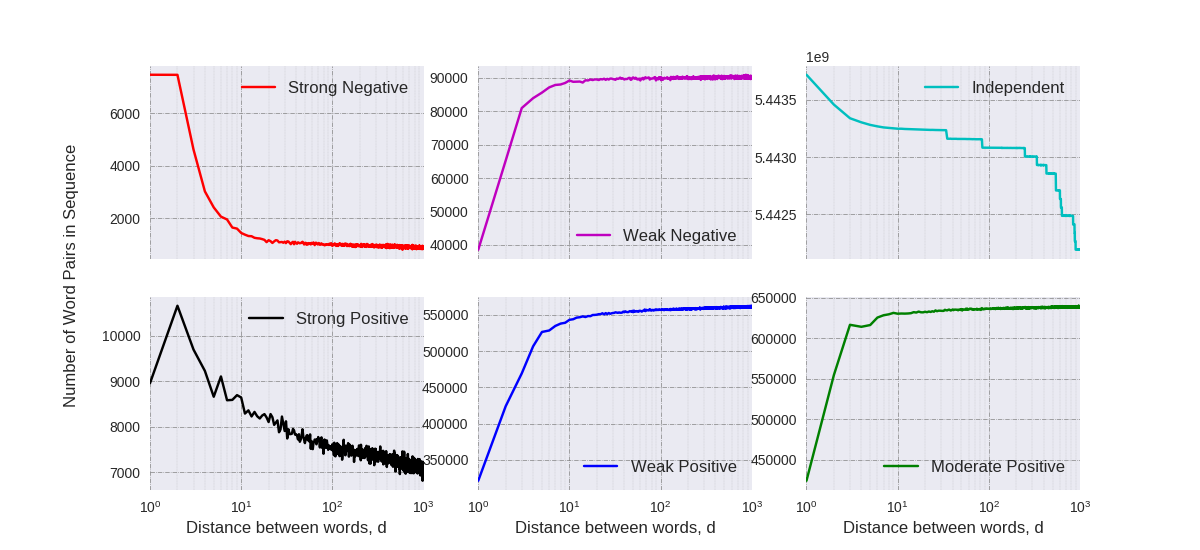
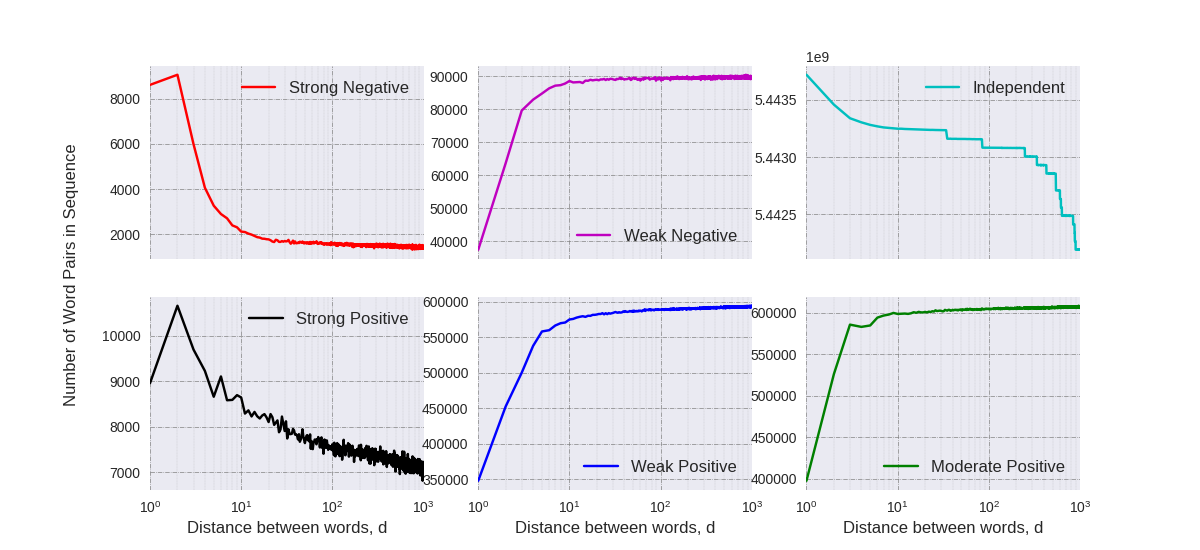
Up

diff --git a/paper_related/co-occurrence/compute_change.py b/paper_related/co-occurrence/compute_change.py
@@ -2,28 +2,44 @@
 
 import numpy as np
 
-ptb = np.array([4966,20676,99706700,140325,126920,413,4253,33493,99598086,197375,166496,297,2731,40599,99556104,219914,180389,263,1898,42031,99541383,236028,178449,211,1573,42496,99534088,242608,178989,246,1390,43108,99529113,246173,179966,250,1282,43210,99526539,248310,180408,251,1200,43629,99524121,249760,181045,245,1199,43631,99523726,250273,180929,242,1084,43769,99521837,251299,181777,234,1093,43586,99521383,252696,181012,230,1095,43767,99520335,252974,181582,247,1019,44194,99519581,253585,181375,246,1019,44069,99519287,253645,181749,231,1000,44012,99519015,253813,181921,239,952,43743,99518372,254903,181804,226,967,44119,99517945,254712,182026,231,955,44035,99517879,254945,181927,259,925,44251,99517010,255217,182359,238,931,43974,99517563,255466,181821,245,942,44078,99517005,256007,181733,235,905,44311,99516992,255589,181964,239,949,44042,99516680,256179,181890,260,920,44262,99516193,256734,181672,219,891,44220,99516310,256936,181379,264,905,44165,99516405,256566,181719,240,910,44384,99515906,256289,182246,265,897,44144,99516215,256308,182231,205,888,44007,99516210,257085,181571,239,890,44141,99516031,256826,181875,237,906,44152,99515628,256858,182236,220,893,43956,99515790,257301,181833,227,837,44381,99515180,257547,181805,250,881,44144,99514947,258189,181614,225,829,44223,99515123,257879,181711,235,824,44111,99515044,257887,181907,227,836,44325,99514719,258080,181810,230,870,44496,99514503,257374,182520,237,840,44255,99514036,258607,182037,225,833,44292,99514480,257853,182312,230,842,44224,99514174,258240,182290,230,869,44231,99514218,258399,182079,204,799,44205,99514814,257824,182140,218,882,44304,99514151,257866,182562,235,798,44379,99514117,258696,181808,202,866,44203,99513869,258585,182242,235,810,44073,99514307,259053,181510,247,798,44436,99513768,258822,181937,239,802,44114,99514206,258766,181874,238,791,44172,99514149,258712,181923,253,836,44080,99513546,259222,182089,227,815,44337,99513554,258969,182102,223,841,44152,99513361,259017,182421,208,838,44265,99513269,259146,182238,244,804,44154,99513543,258912,182354,233,811,44392,99513248,258879,182449,221,793,44108,99513521,259129,182245,204,775,44154,99513775,258788,182277,231,814,44454,99513157,259044,182334,197,820,44456,99512662,259339,182510,213,842,44301,99513097,259475,182089,196,850,44089,99513228,259631,181992,210,805,44394,99513389,259131,182036,245,836,44243,99512916,259548,182254,203,837,44230,99513153,258895,182642,243,837,44333,99513158,259163,182284,225,790,44282,99513281,259247,182195,205,777,44482,99512461,259528,182526,226,800,44086,99513118,259688,182071,237,786,44383,99512979,259534,182106,212,814,44296,99513023,259463,182196,208,844,44230,99512929,259259,182493,245,767,44347,99512932,258854,182877,223,792,44105,99512659,260127,182106,211,756,44427,99512771,259435,182375,236,785,44172,99512848,260072,181924,199,798,44262,99512295,259871,182566,208,787,44266,99512788,259363,182567,229,756,44218,99512610,260252,181960,204,775,44541,99512397,259886,182178,223,789,44407,99512088,260181,182303,232,801,44313,99512351,259993,182345,197,761,44281,99512672,259493,182569,224,781,44372,99512400,260050,182182,215,779,44491,99511981,260003,182516,230,751,44559,99512238,259815,182454,183,722,44414,99512255,260012,182392,205,807,44101,99512504,260089,182301,198,799,44280,99512399,259881,182416,225,813,44084,99511998,260446,182425,234,838,43959,99512024,260629,182325,225,770,44128,99512366,260058,182485,193,754,44163,99512305,260119,182444,215,719,44652,99511851,259843,182729,206,783,44423,99512044,260044,182464,242,775,44206,99512145,260390,182268,216,728,44530,99511966,260284,182272,220,803,43951,99512623,260334,182060,229,724,44501,99512032,260218,182329,196,782,44414,99512106,260095,182377,226]).reshape(100,6)
-wiki2 = np.array([9534,41134,1106725105,330313,318109,1089,9322,68830,1106467008,442875,436225,1024,6258,84445,1106350846,492524,490300,911,4301,88461,1106314868,530096,486747,811,3482,90158,1106294128,546929,489888,699,3107,91767,1106280272,551418,497993,727,2887,92182,1106272845,557151,499496,723,2602,92689,1106268199,559902,501156,736,2435,93253,1106265017,561981,501836,762,2348,93213,1106263421,564906,500659,737,2219,93866,1106260701,566349,501451,698,2230,93458,1106260041,568421,500407,727,2070,93416,1106259488,568846,500761,703,2119,93125,1106257954,570259,501163,664,2028,93726,1106256601,570713,501460,756,2030,93933,1106256777,570615,501265,664,1960,94131,1106255947,571118,501423,705,1917,93867,1106254736,572469,501642,653,1893,94177,1106254855,571730,501932,697,1955,94111,1106253837,572090,502606,685,1923,94300,1106253521,573591,501200,749,1879,94356,1106252816,574099,501429,705,1876,94088,1106252734,574218,501703,665,1794,94172,1106251963,574731,501928,696,1838,93728,1106252409,573714,502909,686,1856,94057,1106251709,574381,502633,648,1855,94154,1106251436,574935,502219,685,1806,94257,1106251351,574412,502792,666,1924,94366,1106250582,575330,502419,663,1842,94442,1106250052,575171,503141,636,1867,93898,1106250875,575456,502512,676,1804,94315,1106250553,574949,502996,667,1766,94000,1106250461,575416,503003,638,1823,94120,1106249561,576348,502741,691,1817,94353,1106249544,576074,502860,636,1751,94339,1106249645,575629,503263,657,1817,94215,1106249614,575579,503401,658,1840,94206,1106248959,576315,503330,634,1843,94083,1106248906,576487,503331,634,1789,94631,1106247791,577301,503136,636,1801,94511,1106249110,575357,503857,648,1810,94401,1106248409,575734,504293,637,1805,94253,1106248637,576809,503146,634,1822,94366,1106248543,576860,503052,641,1683,94340,1106247952,576525,504139,645,1833,94753,1106247917,576736,503373,672,1805,94117,1106248495,576799,503412,656,1764,94308,1106248316,576590,503672,634,1786,94775,1106247405,576555,504075,688,1766,94345,1106247734,577928,502908,603,1841,94444,1106247049,577658,503660,632,1750,94448,1106247128,577306,504031,621,1714,94667,1106247278,576037,504946,642,1802,94404,1106247622,576926,503897,633,1757,94803,1106247003,577475,503659,587,1677,94575,1106246635,577835,503929,633,1757,94107,1106247704,577171,503912,633,1690,94350,1106247028,578205,503385,626,1821,94237,1106247383,577146,504050,647,1736,94533,1106246634,577605,504197,579,1746,94034,1106246943,578104,503835,622,1798,94569,1106246425,577788,504150,554,1747,94918,1106246031,577721,504223,644,1757,94147,1106247146,577324,504276,634,1765,94529,1106246106,577838,504402,644,1696,94194,1106247062,577703,504032,597,1737,94721,1106245966,577669,504626,565,1748,94087,1106246496,577956,504410,587,1700,94475,1106247108,577031,504301,669,1740,94113,1106246845,577426,504582,578,1747,94358,1106246040,577830,504680,629,1778,94398,1106246396,578123,503928,661,1730,94325,1106246904,577766,503966,593,1686,94436,1106246598,577489,504491,584,1683,94761,1106245823,578394,504003,620,1759,94873,1106245620,578126,504286,620,1822,94429,1106245910,577255,505285,583,1725,94713,1106246159,578483,503592,612,1705,94725,1106245270,578512,504491,581,1737,94340,1106246101,578699,503765,642,1787,94333,1106245802,578887,503857,618,1735,94918,1106245389,577890,504713,639,1795,94661,1106245480,578121,504625,602,1732,94736,1106245475,577985,504775,581,1721,94231,1106245933,579079,503739,581,1710,94189,1106245745,578933,504130,577,1821,94253,1106245979,578088,504500,643,1754,94115,1106245581,578790,504432,612,1729,94423,1106245614,578727,504185,606,1702,94742,1106245410,578392,504431,607,1696,94670,1106244986,579307,504051,574,1699,94440,1106245889,579160,503470,626,1772,94541,1106245109,579225,504021,616,1714,94580,1106245069,577941,505366,614,1717,94450,1106245169,578424,504891,633,1688,94387,1106246106,578880,503619,604,1689,94914,1106244620,578988,504469,604,1767,94674,1106246036,577603,504622,582,1691,94620,1106245796,578365,504214,598,1684,94322,1106244910,579679,504096,593]).reshape(100,6)
-wiki103 = np.array([255500,1084984,71670961219,4998715,4724766,5041,232375,1912273,71663671317,8492501,7717194,4565,138149,2383345,71660030085,10627197,8848631,2818,90897,2512515,71659012922,11530096,8881262,2533,68887,2554330,71658361582,12064738,8978738,1950,58712,2596428,71657781813,12367161,9223900,2211,51573,2615937,71657495163,12588591,9277104,1857,47242,2627494,71657309854,12729862,9313799,1974,43762,2638694,71657181672,12830266,9334089,1742,40934,2644695,71657103914,12900240,9338708,1734,39487,2649190,71657034355,12964043,9341489,1661,37872,2654632,71656970051,13007815,9358034,1821,36707,2658522,71656922967,13054506,9355893,1630,35677,2659771,71656870319,13095876,9366857,1725,34257,2666276,71656811438,13130645,9385995,1614,33975,2667711,71656772687,13164458,9389811,1583,33386,2671954,71656728671,13195324,9399343,1547,32648,2673443,71656690527,13223220,9408802,1585,32291,2674557,71656664305,13242540,9414957,1575,31795,2675110,71656637329,13266707,9417718,1566,31077,2676234,71656606778,13290972,9423633,1531,30968,2678509,71656579113,13310530,9429634,1471,30492,2680488,71656553802,13330374,9433619,1450,30508,2681911,71656529265,13346405,9440724,1412,29758,2682277,71656510977,13362451,9443315,1447,29924,2685531,71656480982,13381789,9450552,1447,29344,2681926,71656472110,13396590,9448896,1359,29021,2684870,71656448127,13411303,9455500,1404,28801,2684915,71656430724,13426860,9457486,1439,28624,2686621,71656410866,13436326,9466469,1319,28449,2686961,71656397811,13450985,9464685,1334,28613,2688643,71656378543,13466477,9466582,1367,28199,2689120,71656359339,13483297,9468954,1316,27906,2690177,71656347271,13490920,9472651,1300,27946,2689438,71656335842,13502894,9472812,1293,27498,2690752,71656320820,13508494,9481353,1308,27405,2692476,71656305260,13518631,9485134,1319,27315,2691140,71656296729,13532392,9481371,1278,26827,2694072,71656277764,13541269,9488962,1331,26982,2690948,71656273222,13553911,9483856,1306,26545,2692489,71656261025,13561458,9487410,1298,26853,2695043,71656244830,13569301,9492932,1266,26583,2694547,71656240859,13573661,9493301,1274,26476,2695119,71656227617,13582092,9497641,1280,26543,2695516,71656217117,13593155,9496723,1171,26009,2698100,71656209056,13597396,9498460,1204,26183,2694790,71656200781,13605941,9501345,1185,26078,2695997,71656188326,13614798,9503813,1213,25707,2697102,71656179503,13620329,9506370,1214,25735,2699409,71656172910,13624643,9506291,1237,25825,2698795,71656161903,13636680,9505787,1235,25493,2696560,71656162547,13636825,9507656,1144,25340,2696674,71656150562,13646554,9509904,1191,25578,2699649,71656144132,13650020,9509715,1131,25420,2699692,71656135596,13654064,9514318,1135,25443,2698672,71656129388,13659905,9515698,1119,25182,2699662,71656122445,13665349,9516479,1108,25202,2699661,71656112931,13673179,9518122,1130,25472,2700991,71656108225,13674616,9519810,1111,24898,2699109,71656098530,13687025,9519566,1097,24892,2699792,71656098140,13686160,9520147,1094,24654,2701693,71656084578,13698127,9520077,1093,24515,2702688,71656081956,13693493,9526523,1050,25013,2700466,71656077597,13702970,9523055,1124,24540,2701819,71656071808,13708724,9522202,1132,24573,2702512,71656064396,13709197,9528451,1096,24446,2701930,71656060453,13713588,9528723,1085,24451,2700937,71656054876,13723563,9525309,1089,24446,2702836,71656047005,13726039,9528790,1109,24424,2702303,71656044474,13726807,9531144,1073,24205,2701090,71656035645,13738100,9530086,1099,24112,2702667,71656037060,13735539,9529813,1034,24187,2704155,71656030124,13740968,9529803,988,23844,2703987,71656019529,13744158,9537613,1094,23697,2701415,71656023917,13749159,9531027,1010,24005,2702890,71656012820,13753536,9535835,1139,24263,2704349,71656008532,13754125,9537887,1069,23835,2704571,71656006602,13757979,9536166,1072,23823,2704300,71655997320,13764673,9539046,1063,23767,2705871,71655992126,13768232,9539196,1033,23666,2704414,71655992391,13773443,9535261,1050,23649,2704643,71655988721,13771871,9540335,1006,23574,2707619,71655980752,13769366,9547844,1070,23632,2704504,71655979095,13781615,9540418,961,23452,2705858,71655977346,13779758,9542833,978,23537,2707435,71655973128,13784477,9540603,1045,23379,2707434,71655967779,13785774,9544850,1009,23495,2707035,71655960909,13793481,9544281,1024,23286,2708653,71655963097,13789866,9544322,1001,23289,2708985,71655950381,13797471,9549070,1029,23039,2705412,71655954218,13798910,9547675,971,22967,2706783,71655948108,13802007,9549339,1021,23138,2706815,71655945179,13802643,9551505,945,23011,2708096,71655940678,13810176,9547237,1027,23107,2707157,71655938797,13811085,9549078,1001,22846,2710014,71655936003,13809124,9551306,932,22730,2707755,71655933164,13821069,9544525,982,22971,2707940,71655928848,13818038,9551351,1077,23028,2707007,71655922837,13823773,9552623,957,22890,2706447,71655922931,13825017,9551953,987]).reshape(100,6)
+# ptb = np.array([4966,20676,99706700,140325,126920,413,4253,33493,99598086,197375,166496,297,2731,40599,99556104,219914,180389,263,1898,42031,99541383,236028,178449,211,1573,42496,99534088,242608,178989,246,1390,43108,99529113,246173,179966,250,1282,43210,99526539,248310,180408,251,1200,43629,99524121,249760,181045,245,1199,43631,99523726,250273,180929,242,1084,43769,99521837,251299,181777,234,1093,43586,99521383,252696,181012,230,1095,43767,99520335,252974,181582,247,1019,44194,99519581,253585,181375,246,1019,44069,99519287,253645,181749,231,1000,44012,99519015,253813,181921,239,952,43743,99518372,254903,181804,226,967,44119,99517945,254712,182026,231,955,44035,99517879,254945,181927,259,925,44251,99517010,255217,182359,238,931,43974,99517563,255466,181821,245,942,44078,99517005,256007,181733,235,905,44311,99516992,255589,181964,239,949,44042,99516680,256179,181890,260,920,44262,99516193,256734,181672,219,891,44220,99516310,256936,181379,264,905,44165,99516405,256566,181719,240,910,44384,99515906,256289,182246,265,897,44144,99516215,256308,182231,205,888,44007,99516210,257085,181571,239,890,44141,99516031,256826,181875,237,906,44152,99515628,256858,182236,220,893,43956,99515790,257301,181833,227,837,44381,99515180,257547,181805,250,881,44144,99514947,258189,181614,225,829,44223,99515123,257879,181711,235,824,44111,99515044,257887,181907,227,836,44325,99514719,258080,181810,230,870,44496,99514503,257374,182520,237,840,44255,99514036,258607,182037,225,833,44292,99514480,257853,182312,230,842,44224,99514174,258240,182290,230,869,44231,99514218,258399,182079,204,799,44205,99514814,257824,182140,218,882,44304,99514151,257866,182562,235,798,44379,99514117,258696,181808,202,866,44203,99513869,258585,182242,235,810,44073,99514307,259053,181510,247,798,44436,99513768,258822,181937,239,802,44114,99514206,258766,181874,238,791,44172,99514149,258712,181923,253,836,44080,99513546,259222,182089,227,815,44337,99513554,258969,182102,223,841,44152,99513361,259017,182421,208,838,44265,99513269,259146,182238,244,804,44154,99513543,258912,182354,233,811,44392,99513248,258879,182449,221,793,44108,99513521,259129,182245,204,775,44154,99513775,258788,182277,231,814,44454,99513157,259044,182334,197,820,44456,99512662,259339,182510,213,842,44301,99513097,259475,182089,196,850,44089,99513228,259631,181992,210,805,44394,99513389,259131,182036,245,836,44243,99512916,259548,182254,203,837,44230,99513153,258895,182642,243,837,44333,99513158,259163,182284,225,790,44282,99513281,259247,182195,205,777,44482,99512461,259528,182526,226,800,44086,99513118,259688,182071,237,786,44383,99512979,259534,182106,212,814,44296,99513023,259463,182196,208,844,44230,99512929,259259,182493,245,767,44347,99512932,258854,182877,223,792,44105,99512659,260127,182106,211,756,44427,99512771,259435,182375,236,785,44172,99512848,260072,181924,199,798,44262,99512295,259871,182566,208,787,44266,99512788,259363,182567,229,756,44218,99512610,260252,181960,204,775,44541,99512397,259886,182178,223,789,44407,99512088,260181,182303,232,801,44313,99512351,259993,182345,197,761,44281,99512672,259493,182569,224,781,44372,99512400,260050,182182,215,779,44491,99511981,260003,182516,230,751,44559,99512238,259815,182454,183,722,44414,99512255,260012,182392,205,807,44101,99512504,260089,182301,198,799,44280,99512399,259881,182416,225,813,44084,99511998,260446,182425,234,838,43959,99512024,260629,182325,225,770,44128,99512366,260058,182485,193,754,44163,99512305,260119,182444,215,719,44652,99511851,259843,182729,206,783,44423,99512044,260044,182464,242,775,44206,99512145,260390,182268,216,728,44530,99511966,260284,182272,220,803,43951,99512623,260334,182060,229,724,44501,99512032,260218,182329,196,782,44414,99512106,260095,182377,226]).reshape(100,6)
+# wiki2 = np.array([9534,41134,1106725105,330313,318109,1089,9322,68830,1106467008,442875,436225,1024,6258,84445,1106350846,492524,490300,911,4301,88461,1106314868,530096,486747,811,3482,90158,1106294128,546929,489888,699,3107,91767,1106280272,551418,497993,727,2887,92182,1106272845,557151,499496,723,2602,92689,1106268199,559902,501156,736,2435,93253,1106265017,561981,501836,762,2348,93213,1106263421,564906,500659,737,2219,93866,1106260701,566349,501451,698,2230,93458,1106260041,568421,500407,727,2070,93416,1106259488,568846,500761,703,2119,93125,1106257954,570259,501163,664,2028,93726,1106256601,570713,501460,756,2030,93933,1106256777,570615,501265,664,1960,94131,1106255947,571118,501423,705,1917,93867,1106254736,572469,501642,653,1893,94177,1106254855,571730,501932,697,1955,94111,1106253837,572090,502606,685,1923,94300,1106253521,573591,501200,749,1879,94356,1106252816,574099,501429,705,1876,94088,1106252734,574218,501703,665,1794,94172,1106251963,574731,501928,696,1838,93728,1106252409,573714,502909,686,1856,94057,1106251709,574381,502633,648,1855,94154,1106251436,574935,502219,685,1806,94257,1106251351,574412,502792,666,1924,94366,1106250582,575330,502419,663,1842,94442,1106250052,575171,503141,636,1867,93898,1106250875,575456,502512,676,1804,94315,1106250553,574949,502996,667,1766,94000,1106250461,575416,503003,638,1823,94120,1106249561,576348,502741,691,1817,94353,1106249544,576074,502860,636,1751,94339,1106249645,575629,503263,657,1817,94215,1106249614,575579,503401,658,1840,94206,1106248959,576315,503330,634,1843,94083,1106248906,576487,503331,634,1789,94631,1106247791,577301,503136,636,1801,94511,1106249110,575357,503857,648,1810,94401,1106248409,575734,504293,637,1805,94253,1106248637,576809,503146,634,1822,94366,1106248543,576860,503052,641,1683,94340,1106247952,576525,504139,645,1833,94753,1106247917,576736,503373,672,1805,94117,1106248495,576799,503412,656,1764,94308,1106248316,576590,503672,634,1786,94775,1106247405,576555,504075,688,1766,94345,1106247734,577928,502908,603,1841,94444,1106247049,577658,503660,632,1750,94448,1106247128,577306,504031,621,1714,94667,1106247278,576037,504946,642,1802,94404,1106247622,576926,503897,633,1757,94803,1106247003,577475,503659,587,1677,94575,1106246635,577835,503929,633,1757,94107,1106247704,577171,503912,633,1690,94350,1106247028,578205,503385,626,1821,94237,1106247383,577146,504050,647,1736,94533,1106246634,577605,504197,579,1746,94034,1106246943,578104,503835,622,1798,94569,1106246425,577788,504150,554,1747,94918,1106246031,577721,504223,644,1757,94147,1106247146,577324,504276,634,1765,94529,1106246106,577838,504402,644,1696,94194,1106247062,577703,504032,597,1737,94721,1106245966,577669,504626,565,1748,94087,1106246496,577956,504410,587,1700,94475,1106247108,577031,504301,669,1740,94113,1106246845,577426,504582,578,1747,94358,1106246040,577830,504680,629,1778,94398,1106246396,578123,503928,661,1730,94325,1106246904,577766,503966,593,1686,94436,1106246598,577489,504491,584,1683,94761,1106245823,578394,504003,620,1759,94873,1106245620,578126,504286,620,1822,94429,1106245910,577255,505285,583,1725,94713,1106246159,578483,503592,612,1705,94725,1106245270,578512,504491,581,1737,94340,1106246101,578699,503765,642,1787,94333,1106245802,578887,503857,618,1735,94918,1106245389,577890,504713,639,1795,94661,1106245480,578121,504625,602,1732,94736,1106245475,577985,504775,581,1721,94231,1106245933,579079,503739,581,1710,94189,1106245745,578933,504130,577,1821,94253,1106245979,578088,504500,643,1754,94115,1106245581,578790,504432,612,1729,94423,1106245614,578727,504185,606,1702,94742,1106245410,578392,504431,607,1696,94670,1106244986,579307,504051,574,1699,94440,1106245889,579160,503470,626,1772,94541,1106245109,579225,504021,616,1714,94580,1106245069,577941,505366,614,1717,94450,1106245169,578424,504891,633,1688,94387,1106246106,578880,503619,604,1689,94914,1106244620,578988,504469,604,1767,94674,1106246036,577603,504622,582,1691,94620,1106245796,578365,504214,598,1684,94322,1106244910,579679,504096,593]).reshape(100,6)
+# wiki103 = np.array([255500,1084984,71670961219,4998715,4724766,5041,232375,1912273,71663671317,8492501,7717194,4565,138149,2383345,71660030085,10627197,8848631,2818,90897,2512515,71659012922,11530096,8881262,2533,68887,2554330,71658361582,12064738,8978738,1950,58712,2596428,71657781813,12367161,9223900,2211,51573,2615937,71657495163,12588591,9277104,1857,47242,2627494,71657309854,12729862,9313799,1974,43762,2638694,71657181672,12830266,9334089,1742,40934,2644695,71657103914,12900240,9338708,1734,39487,2649190,71657034355,12964043,9341489,1661,37872,2654632,71656970051,13007815,9358034,1821,36707,2658522,71656922967,13054506,9355893,1630,35677,2659771,71656870319,13095876,9366857,1725,34257,2666276,71656811438,13130645,9385995,1614,33975,2667711,71656772687,13164458,9389811,1583,33386,2671954,71656728671,13195324,9399343,1547,32648,2673443,71656690527,13223220,9408802,1585,32291,2674557,71656664305,13242540,9414957,1575,31795,2675110,71656637329,13266707,9417718,1566,31077,2676234,71656606778,13290972,9423633,1531,30968,2678509,71656579113,13310530,9429634,1471,30492,2680488,71656553802,13330374,9433619,1450,30508,2681911,71656529265,13346405,9440724,1412,29758,2682277,71656510977,13362451,9443315,1447,29924,2685531,71656480982,13381789,9450552,1447,29344,2681926,71656472110,13396590,9448896,1359,29021,2684870,71656448127,13411303,9455500,1404,28801,2684915,71656430724,13426860,9457486,1439,28624,2686621,71656410866,13436326,9466469,1319,28449,2686961,71656397811,13450985,9464685,1334,28613,2688643,71656378543,13466477,9466582,1367,28199,2689120,71656359339,13483297,9468954,1316,27906,2690177,71656347271,13490920,9472651,1300,27946,2689438,71656335842,13502894,9472812,1293,27498,2690752,71656320820,13508494,9481353,1308,27405,2692476,71656305260,13518631,9485134,1319,27315,2691140,71656296729,13532392,9481371,1278,26827,2694072,71656277764,13541269,9488962,1331,26982,2690948,71656273222,13553911,9483856,1306,26545,2692489,71656261025,13561458,9487410,1298,26853,2695043,71656244830,13569301,9492932,1266,26583,2694547,71656240859,13573661,9493301,1274,26476,2695119,71656227617,13582092,9497641,1280,26543,2695516,71656217117,13593155,9496723,1171,26009,2698100,71656209056,13597396,9498460,1204,26183,2694790,71656200781,13605941,9501345,1185,26078,2695997,71656188326,13614798,9503813,1213,25707,2697102,71656179503,13620329,9506370,1214,25735,2699409,71656172910,13624643,9506291,1237,25825,2698795,71656161903,13636680,9505787,1235,25493,2696560,71656162547,13636825,9507656,1144,25340,2696674,71656150562,13646554,9509904,1191,25578,2699649,71656144132,13650020,9509715,1131,25420,2699692,71656135596,13654064,9514318,1135,25443,2698672,71656129388,13659905,9515698,1119,25182,2699662,71656122445,13665349,9516479,1108,25202,2699661,71656112931,13673179,9518122,1130,25472,2700991,71656108225,13674616,9519810,1111,24898,2699109,71656098530,13687025,9519566,1097,24892,2699792,71656098140,13686160,9520147,1094,24654,2701693,71656084578,13698127,9520077,1093,24515,2702688,71656081956,13693493,9526523,1050,25013,2700466,71656077597,13702970,9523055,1124,24540,2701819,71656071808,13708724,9522202,1132,24573,2702512,71656064396,13709197,9528451,1096,24446,2701930,71656060453,13713588,9528723,1085,24451,2700937,71656054876,13723563,9525309,1089,24446,2702836,71656047005,13726039,9528790,1109,24424,2702303,71656044474,13726807,9531144,1073,24205,2701090,71656035645,13738100,9530086,1099,24112,2702667,71656037060,13735539,9529813,1034,24187,2704155,71656030124,13740968,9529803,988,23844,2703987,71656019529,13744158,9537613,1094,23697,2701415,71656023917,13749159,9531027,1010,24005,2702890,71656012820,13753536,9535835,1139,24263,2704349,71656008532,13754125,9537887,1069,23835,2704571,71656006602,13757979,9536166,1072,23823,2704300,71655997320,13764673,9539046,1063,23767,2705871,71655992126,13768232,9539196,1033,23666,2704414,71655992391,13773443,9535261,1050,23649,2704643,71655988721,13771871,9540335,1006,23574,2707619,71655980752,13769366,9547844,1070,23632,2704504,71655979095,13781615,9540418,961,23452,2705858,71655977346,13779758,9542833,978,23537,2707435,71655973128,13784477,9540603,1045,23379,2707434,71655967779,13785774,9544850,1009,23495,2707035,71655960909,13793481,9544281,1024,23286,2708653,71655963097,13789866,9544322,1001,23289,2708985,71655950381,13797471,9549070,1029,23039,2705412,71655954218,13798910,9547675,971,22967,2706783,71655948108,13802007,9549339,1021,23138,2706815,71655945179,13802643,9551505,945,23011,2708096,71655940678,13810176,9547237,1027,23107,2707157,71655938797,13811085,9549078,1001,22846,2710014,71655936003,13809124,9551306,932,22730,2707755,71655933164,13821069,9544525,982,22971,2707940,71655928848,13818038,9551351,1077,23028,2707007,71655922837,13823773,9552623,957,22890,2706447,71655922931,13825017,9551953,987]).reshape(100,6)
 
-for i in range(5,20):
-	for j in range(0,6):
-		print("PTB: w1={ptb_1:12d}, w2={ptb_2:12d}, p_i={ptb_p:9.5f} - WikiText2: w1={w2_1:12d}, w2={w2_2:12d}, p_i={w2_p:9.5f} - WikiText103: w1={w103_1:12d}, w2={w103_2:12d}, p_i={w103_p:9.5f}".format(ptb_1=ptb[i-1,j],ptb_2=ptb[i,j],ptb_p=(ptb[i,j]-ptb[i-1,j])/ptb[i-1,j]*100,w2_1=wiki2[i-1,j],w2_2=wiki2[i,j],w2_p=(wiki2[i,j]-wiki2[i-1,j])/wiki2[i-1,j]*100,w103_1=wiki103[i-1,j],w103_2=wiki103[i,j],w103_p=(wiki103[i,j]-wiki103[i-1,j])/wiki103[i-1,j]*100))
-		# print("PTB: {ptb_p:9.5f}, WikiText2: {w2_p:9.5f}, WikiText103: {w103_p:9.5f}".format(ptb_1=ptb[i-1,j],ptb_2=ptb[i,j],ptb_p=(ptb[i,j]-ptb[i-1,j])/ptb[i-1,j]*100,w2_1=wiki2[i-1,j],w2_2=wiki2[i,j],w2_p=(wiki2[i,j]-wiki2[i-1,j])/wiki2[i-1,j]*100,w103_1=wiki103[i-1,j],w103_2=wiki103[i,j],w103_p=(wiki103[i,j]-wiki103[i-1,j])/wiki103[i-1,j]*100))
-	print("===============================================================")
+# for i in range(5,20):
+# 	for j in range(0,6):
+# 		print("PTB: w1={ptb_1:12d}, w2={ptb_2:12d}, p_i={ptb_p:9.5f} - WikiText2: w1={w2_1:12d}, w2={w2_2:12d}, p_i={w2_p:9.5f} - WikiText103: w1={w103_1:12d}, w2={w103_2:12d}, p_i={w103_p:9.5f}".format(ptb_1=ptb[i-1,j],ptb_2=ptb[i,j],ptb_p=(ptb[i,j]-ptb[i-1,j])/ptb[i-1,j]*100,w2_1=wiki2[i-1,j],w2_2=wiki2[i,j],w2_p=(wiki2[i,j]-wiki2[i-1,j])/wiki2[i-1,j]*100,w103_1=wiki103[i-1,j],w103_2=wiki103[i,j],w103_p=(wiki103[i,j]-wiki103[i-1,j])/wiki103[i-1,j]*100))
+# 		# print("PTB: {ptb_p:9.5f}, WikiText2: {w2_p:9.5f}, WikiText103: {w103_p:9.5f}".format(ptb_1=ptb[i-1,j],ptb_2=ptb[i,j],ptb_p=(ptb[i,j]-ptb[i-1,j])/ptb[i-1,j]*100,w2_1=wiki2[i-1,j],w2_2=wiki2[i,j],w2_p=(wiki2[i,j]-wiki2[i-1,j])/wiki2[i-1,j]*100,w103_1=wiki103[i-1,j],w103_2=wiki103[i,j],w103_p=(wiki103[i,j]-wiki103[i-1,j])/wiki103[i-1,j]*100))
+# 	print("===============================================================")
 
-print("Between 1 and 5")
+# print("Between 1 and 5")
+# for j in range(6):
+# 		print("PTB: w1={ptb_1:12d}, w2={ptb_2:12d}, p_i={ptb_p:9.5f} - WikiText2: w1={w2_1:12d}, w2={w2_2:12d}, p_i={w2_p:9.5f} - WikiText103: w1={w103_1:12d}, w2={w103_2:12d}, p_i={w103_p:9.5f}".format(ptb_1=ptb[0,j],ptb_2=ptb[4,j],ptb_p=(ptb[4,j]-ptb[0,j])/ptb[0,j]*100,w2_1=wiki2[0,j],w2_2=wiki2[4,j],w2_p=(wiki2[4,j]-wiki2[0,j])/wiki2[0,j]*100,w103_1=wiki103[0,j],w103_2=wiki103[4,j],w103_p=(wiki103[4,j]-wiki103[0,j])/wiki103[0,j]*100))
+
+# print("Between 6 and 20")
+# for j in range(6):
+# 		print("PTB: w1={ptb_1:12d}, w2={ptb_2:12d}, p_i={ptb_p:9.5f} - WikiText2: w1={w2_1:12d}, w2={w2_2:12d}, p_i={w2_p:9.5f} - WikiText103: w1={w103_1:12d}, w2={w103_2:12d}, p_i={w103_p:9.5f}".format(ptb_1=ptb[5,j],ptb_2=ptb[19,j],ptb_p=(ptb[19,j]-ptb[5,j])/ptb[5,j]*100,w2_1=wiki2[5,j],w2_2=wiki2[19,j],w2_p=(wiki2[19,j]-wiki2[5,j])/wiki2[5,j]*100,w103_1=wiki103[5,j],w103_2=wiki103[19,j],w103_p=(wiki103[19,j]-wiki103[5,j])/wiki103[5,j]*100))
+
+# print("Between 20 and 100")
+# for j in range(6):
+# 		print("PTB: w1={ptb_1:12d}, w2={ptb_2:12d}, p_i={ptb_p:9.5f} - WikiText2: w1={w2_1:12d}, w2={w2_2:12d}, p_i={w2_p:9.5f} - WikiText103: w1={w103_1:12d}, w2={w103_2:12d}, p_i={w103_p:9.5f}".format(ptb_1=ptb[19,j],ptb_2=ptb[99,j],ptb_p=(ptb[99,j]-ptb[19,j])/ptb[19,j]*100,w2_1=wiki2[19,j],w2_2=wiki2[99,j],w2_p=(wiki2[99,j]-wiki2[19,j])/wiki2[19,j]*100,w103_1=wiki103[19,j],w103_2=wiki103[99,j],w103_p=(wiki103[99,j]-wiki103[19,j])/wiki103[19,j]*100))
+
+
+# ptb = np.array([[4966,20676,99706700,140325,126920,413],[1898,42031,99541383,236028,178449,211],[881,44144,99514947,258189,181614,225],[647,44488,99508678,263185,182814,188]])
+# wiki2 = np.array([[9534,41134,1106725105,330313,318109,1089],[4301,88461,1106314868,530096,486747,811],[1879,94356,1106252816,574099,501429,705],[1456,95142,1106238248,583146,506762,530]])
+# wiki103 = np.array([[255500,1084984,71670961219,4998715,4724766,5041],[90897,2512515,71659012922,11530096,8881262,2533],[27946,2689438,71656335842,13502894,9472812,1293],[13574,2759476,71655225828,14387975,9642725,647]])
+
+ptb = np.array([[4966,20676,99706700,140325,126920,413],[1898,42031,99541383,236028,178449,211],[829,44223,99515123,257879,181711,235],[658,44235,99508174,263245,183505,183]])
+wiki2 = np.array([[9534,41134,1106725105,330313,318109,1089],[4301,88461,1106314868,530096,486747,811],[1817,94353,1106249544,576074,502860,636],[1574,94953,1106239529,581661,506988,579]])
+wiki103 = np.array([[255500,1084984,71670961219,4998715,4724766,5041],[90897,2512515,71659012922,11530096,8881262,2533],[27946,2689438,71656335842,13502894,9472812,1293],[13574,2759476,71655225828,14387975,9642725,647]])
+
+print("Between 1 and db1")
 for j in range(6):
-		print("PTB: w1={ptb_1:12d}, w2={ptb_2:12d}, p_i={ptb_p:9.5f} - WikiText2: w1={w2_1:12d}, w2={w2_2:12d}, p_i={w2_p:9.5f} - WikiText103: w1={w103_1:12d}, w2={w103_2:12d}, p_i={w103_p:9.5f}".format(ptb_1=ptb[0,j],ptb_2=ptb[4,j],ptb_p=(ptb[4,j]-ptb[0,j])/ptb[0,j]*100,w2_1=wiki2[0,j],w2_2=wiki2[4,j],w2_p=(wiki2[4,j]-wiki2[0,j])/wiki2[0,j]*100,w103_1=wiki103[0,j],w103_2=wiki103[4,j],w103_p=(wiki103[4,j]-wiki103[0,j])/wiki103[0,j]*100))
+		print("PTB: w1={ptb_1:12d}, w2={ptb_2:12d}, p_i={ptb_p:9.5f} - WikiText2: w1={w2_1:12d}, w2={w2_2:12d}, p_i={w2_p:9.5f} - WikiText103: w1={w103_1:12d}, w2={w103_2:12d}, p_i={w103_p:9.5f}".format(ptb_1=ptb[0,j],ptb_2=ptb[1,j],ptb_p=(ptb[1,j]-ptb[0,j])/ptb[0,j]*100,w2_1=wiki2[0,j],w2_2=wiki2[1,j],w2_p=(wiki2[1,j]-wiki2[0,j])/wiki2[0,j]*100,w103_1=wiki103[0,j],w103_2=wiki103[1,j],w103_p=(wiki103[1,j]-wiki103[0,j])/wiki103[0,j]*100))
 
-print("Between 6 and 20")
+print("Between dr1 and db2")
 for j in range(6):
-		print("PTB: w1={ptb_1:12d}, w2={ptb_2:12d}, p_i={ptb_p:9.5f} - WikiText2: w1={w2_1:12d}, w2={w2_2:12d}, p_i={w2_p:9.5f} - WikiText103: w1={w103_1:12d}, w2={w103_2:12d}, p_i={w103_p:9.5f}".format(ptb_1=ptb[5,j],ptb_2=ptb[19,j],ptb_p=(ptb[19,j]-ptb[5,j])/ptb[5,j]*100,w2_1=wiki2[5,j],w2_2=wiki2[19,j],w2_p=(wiki2[19,j]-wiki2[5,j])/wiki2[5,j]*100,w103_1=wiki103[5,j],w103_2=wiki103[19,j],w103_p=(wiki103[19,j]-wiki103[5,j])/wiki103[5,j]*100))
-
-print("Between 20 and 100")
-for j in range(6):
-		print("PTB: w1={ptb_1:12d}, w2={ptb_2:12d}, p_i={ptb_p:9.5f} - WikiText2: w1={w2_1:12d}, w2={w2_2:12d}, p_i={w2_p:9.5f} - WikiText103: w1={w103_1:12d}, w2={w103_2:12d}, p_i={w103_p:9.5f}".format(ptb_1=ptb[19,j],ptb_2=ptb[99,j],ptb_p=(ptb[99,j]-ptb[19,j])/ptb[19,j]*100,w2_1=wiki2[19,j],w2_2=wiki2[99,j],w2_p=(wiki2[99,j]-wiki2[19,j])/wiki2[19,j]*100,w103_1=wiki103[19,j],w103_2=wiki103[99,j],w103_p=(wiki103[99,j]-wiki103[19,j])/wiki103[19,j]*100))
-
+		print("PTB: w1={ptb_1:12d}, w2={ptb_2:12d}, p_i={ptb_p:9.5f} - WikiText2: w1={w2_1:12d}, w2={w2_2:12d}, p_i={w2_p:9.5f} - WikiText103: w1={w103_1:12d}, w2={w103_2:12d}, p_i={w103_p:9.5f}".format(ptb_1=ptb[2,j],ptb_2=ptb[3,j],ptb_p=(ptb[3,j]-ptb[2,j])/ptb[2,j]*100,w2_1=wiki2[2,j],w2_2=wiki2[3,j],w2_p=(wiki2[3,j]-wiki2[2,j])/wiki2[2,j]*100,w103_1=wiki103[2,j],w103_2=wiki103[3,j],w103_p=(wiki103[3,j]-wiki103[2,j])/wiki103[2,j]*100))
 
 
 # text8 = np.array([57637,304708,64437960321,1617650,2150362,16492,38929,453976,64436583726,2338717,2676244,15578,22109,521618,64436036790,2659805,2854503,12345,13597,525625,64435959774,2808122,2788047,12005,10539,527672,64435881223,2874921,2802392,10423,9494,532728,64435822643,2909553,2821855,10897,8590,534635,64435789286,2935674,2829119,9866,8176,535247,64435773195,2952586,2827670,10296,7711,536488,64435754987,2964435,2833997,9552,7326,538446,64435728467,2974911,2848279,9741,7023,540021,64435714473,2983401,2853273,8979,6803,540923,64435702897,2991586,2855661,9300,6636,541717,64435690031,2997131,2862817,8838,6614,542083,64435682323,3001558,2865666,8926,6424,541885,64435674898,3009428,2865994,8541,6273,541797,64435669389,3014261,2866799,8651,6112,541593,64435666271,3021969,2863014,8211,6111,541997,64435662192,3026140,2862306,8424,5996,543030,64435659830,3029717,2860628,7969,5893,542622,64435661786,3029295,2859334,8240,5797,543392,64435656064,3037788,2856221,7908,5919,542447,64435652703,3039922,2858264,7915,5851,543364,64435646378,3041143,2862726,7708,5730,544248,64435639161,3042671,2867526,7834,5582,543342,64435635970,3044804,2869824,7648,5687,544412,64435628563,3046511,2874306,7691,5594,545919,64435623600,3047545,2877097,7415,5481,544955,64435620787,3050817,2877600,7530,5552,544251,64435617738,3054822,2877429,7378,5430,544663,64435617556,3056316,2875757,7448,5358,544687,64435615387,3060466,2874042,7230,5301,544637,64435615855,3062240,2871837,7300,5253,544400,64435616056,3063518,2870824,7119,5148,544614,64435617115,3063911,2869249,7133,5377,543706,64435615744,3068430,2866980,6933,5215,544183,64435614572,3068313,2867849,7038,5085,544384,64435611616,3070654,2868508,6923,5076,544902,64435608336,3071409,2870557,6890,4925,545177,64435605214,3073627,2871464,6763,5000,545837,64435601273,3073242,2874900,6918,4934,545654,64435598326,3071490,2880025,6741,4995,544650,64435597823,3074795,2878128,6779,4919,545815,64435593054,3076872,2879843,6667,4997,546229,64435592906,3078280,2878118,6640,5011,545789,64435592103,3079861,2877839,6567,4837,546161,64435339408,3082155,2874085,6669,4884,545777,64435338772,3084214,2873214,6454,4900,545467,64435338496,3084851,2873203,6398,4792,546098,64435339120,3084794,2872066,6445,4790,545080,64435339100,3087174,2870612,6559,4866,545354,64435336120,3087858,2872789,6328,4683,545059,64435334505,3089696,2872941,6431,4743,546532,64435332695,3087592,2875425,6328,4633,546548,64435330536,3089481,2875802,6315,4639,547039,64435327644,3087313,2880445,6235,4723,546778,64435325702,3089407,2880422,6283,4645,546727,64435325771,3091670,2878322,6180,4602,546610,64435325471,3092644,2877754,6234,4657,546409,64435323401,3094405,2878368,6075,4671,546828,64435322647,3094541,2878488,6140,4569,545970,64435324603,3094963,2877160,6050,4589,546727,64435324567,3096519,2874795,6118,4517,546406,64435323998,3095778,2876554,6062,4486,546165,64435323396,3100429,2872768,6071,4551,546312,64435322307,3098154,2876091,5900,4523,546355,64435321680,3099091,2875802,5864,4340,546650,64435319151,3101903,2875377,5894,4569,547048,64435318610,3098056,2879229,5803,4421,546269,64435315729,3101965,2879203,5728,4479,546363,64435316711,3101821,2878160,5781,4497,546490,64435314213,3104643,2877681,5791,4389,546536,64435315062,3101993,2879539,5796,4417,546529,64435312916,3104458,2879279,5713,4455,547362,64435312694,3104591,2878463,5750,4337,547219,64435313589,3104307,2878223,5640,4312,546924,64435312239,3106693,2877463,5684,4332,547691,64435310540,3106425,2878706,5621,4378,546894,64435313039,3104979,2878463,5562,4396,547293,64435311503,3108092,2876528,5503,4292,547491,64435309841,3108101,2878070,5520,4326,547891,64435307943,3107162,2880488,5505,4341,547027,64435307223,3110712,2878525,5487,4193,546464,64435308292,3109356,2879482,5528,4301,546850,64435307394,3110592,2878724,5454,4298,547517,64435304730,3110755,2880488,5527,4278,546603,64435305802,3110509,2880676,5447,4144,546147,64435304388,3112338,2880964,5334,4089,547410,64435304326,3111369,2880772,5349,4172,546620,64435303008,3115775,2878247,5493,4170,546473,64435304337,3114947,2878142,5246,4149,547371,64435304827,3113315,2878252,5401,4149,547122,64435303387,3115581,2877571,5505,4202,547431,64435303926,3112881,2879595,5280,4140,546972,64435301258,3117681,2877996,5268,4064,547129,64435301782,3116641,2878364,5335,4132,547194,64435301929,3114766,2879966,5328,4061,548881,64435297975,3117011,2880179,5208,4126,547516,64435299907,3114827,2881664,5275,4085,547423,64435300589,3117306,2878822,5090,4134,547432,64435297498,3118556,2880465,5230]).reshape(100,6)

diff --git a/paper_related/co-occurrence/plot_cooccur.py b/paper_related/co-occurrence/plot_cooccur.py
@@ -4,14 +4,14 @@ import seaborn as sns
 import matplotlib.pyplot as plt
 import numpy as np
 
-filenames = ["1","2","4","5","6","9","14","15","17","18","20"]
+filenames = ["1","2","4","5","6","9","12","13","14","15","17","18","20"]
 
-# f = open("marginal_dependence_<unk>_"+filenames[7], "r")
-f = open("word_pair_dependence_"+filenames[4], "r")
+f = open("marginal_dependence_<unk>_"+filenames[6], "r")
+# f = open("word_pair_dependence_"+filenames[6], "r")
 lines = f.readlines()
 f.close()
 
-print("word_pair_dependence_"+filenames[4])
+print("word_pair_dependence_"+filenames[6])
 
 start = 0
 end = 0
@@ -45,6 +45,7 @@ with plt.style.context(('seaborn')):
 	fig = plt.figure()
 	ax1 = plt.subplot(231)
 	plt.semilogx(np.arange(1,len(sn)+1), sn, "r-", label="Strong Negative")
+	# plt.plot(np.arange(1,len(sn)+1), sn, "r-", label="Strong Negative")
 	plt.grid(True)
 	plt.grid(which='major', linestyle='-.', linewidth='0.5', color='grey')
 	plt.grid(which='minor', linestyle=':', linewidth='0.2', color='grey')
@@ -54,6 +55,7 @@ with plt.style.context(('seaborn')):
 
 	ax2 = plt.subplot(232)
 	plt.semilogx(np.arange(1,len(wn)+1), wn, 'm-', label="Weak Negative")
+	# plt.plot(np.arange(1,len(wn)+1), wn, 'm-', label="Weak Negative")
 	plt.grid(True)
 	plt.grid(which='major', linestyle='-.', linewidth='0.5', color='grey')
 	plt.grid(which='minor', linestyle=':', linewidth='0.2', color='grey')
@@ -63,6 +65,7 @@ with plt.style.context(('seaborn')):
 
 	ax3 = plt.subplot(233)
 	plt.semilogx(np.arange(1,len(ind)+1), ind, 'c-', label="Independent")
+	# plt.plot(np.arange(1,len(ind)+1), ind, 'c-', label="Independent")
 	plt.grid(True)
 	plt.grid(which='major', linestyle='-.', linewidth='0.5', color='grey')
 	plt.grid(which='minor', linestyle=':', linewidth='0.2', color='grey')
@@ -72,6 +75,7 @@ with plt.style.context(('seaborn')):
 
 	ax4 = plt.subplot(234, sharex=ax1)
 	plt.semilogx(np.arange(1,len(sp)+1), sp, "k-", label="Strong Positive")
+	# plt.plot(np.arange(1,len(sp)+1), sp, "k-", label="Strong Positive")
 	plt.grid(True)
 	plt.grid(which='major', linestyle='-.', linewidth='0.5', color='grey')
 	plt.grid(which='minor', linestyle=':', linewidth='0.2', color='grey')
@@ -81,6 +85,7 @@ with plt.style.context(('seaborn')):
 
 	ax5 = plt.subplot(235, sharex=ax2)
 	plt.semilogx(np.arange(1,len(wp)+1), wp, 'b-', label="Weak Positive")
+	# plt.plot(np.arange(1,len(wp)+1), wp, 'b-', label="Weak Positive")
 	plt.grid(True)
 	plt.grid(which='major', linestyle='-.', linewidth='0.5', color='grey')
 	plt.grid(which='minor', linestyle=':', linewidth='0.2', color='grey')
@@ -90,6 +95,7 @@ with plt.style.context(('seaborn')):
 
 	ax6 = plt.subplot(236, sharex=ax3)
 	plt.semilogx(np.arange(1,len(mp)+1), mp, 'g-', label="Moderate Positive")
+	# plt.plot(np.arange(1,len(mp)+1), mp, 'g-', label="Moderate Positive")
 	plt.grid(True)
 	plt.grid(which='major', linestyle='-.', linewidth='0.5', color='grey')
 	plt.grid(which='minor', linestyle=':', linewidth='0.2', color='grey')
@@ -103,5 +109,5 @@ with plt.style.context(('seaborn')):
 	print(fig.get_figwidth())
 	print(fig.get_figheight())
 
-	plt.savefig('pmi_plots_wiki2')
+	plt.savefig('pmi_word_<unk>_12')
 	plt.show()
